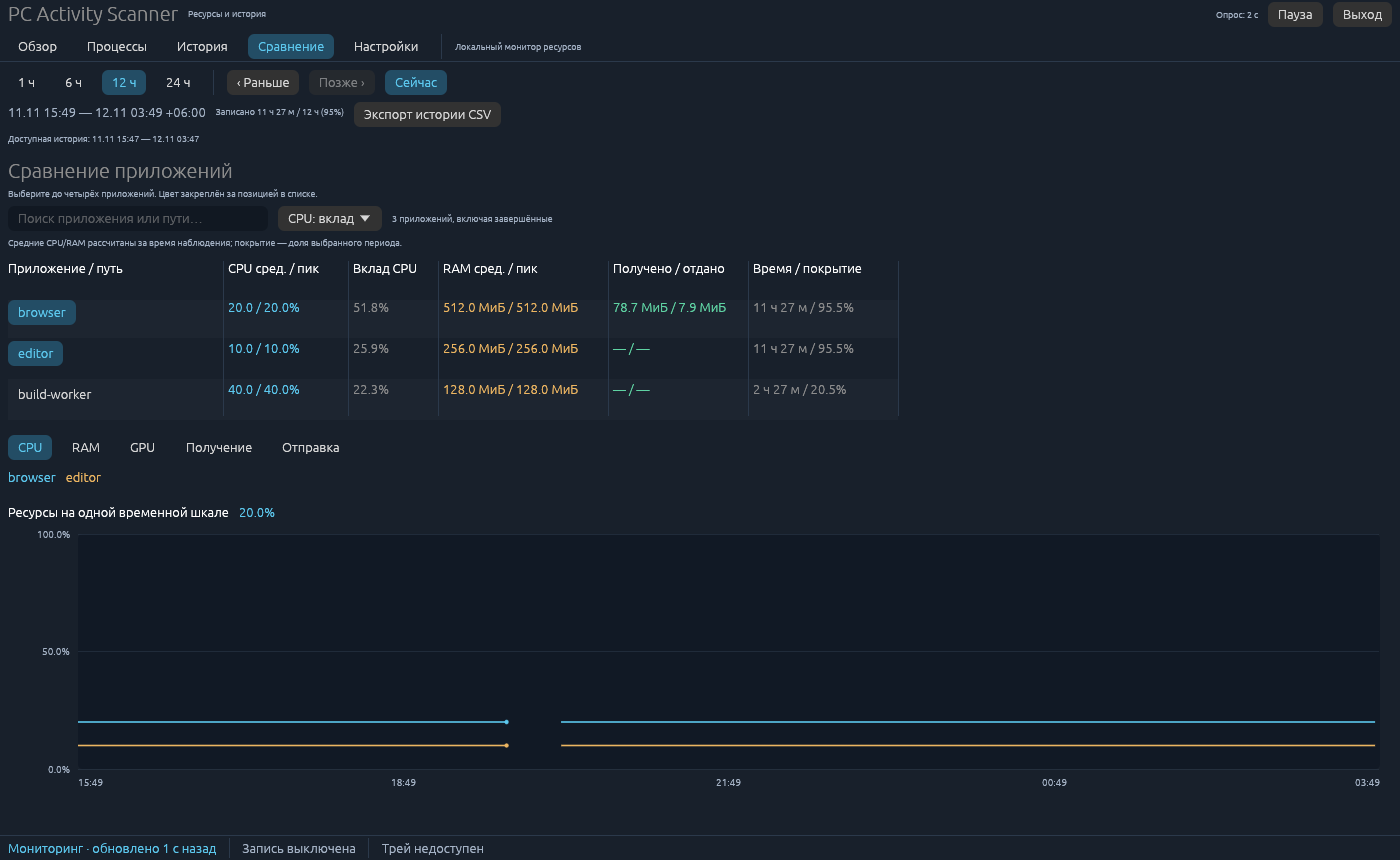
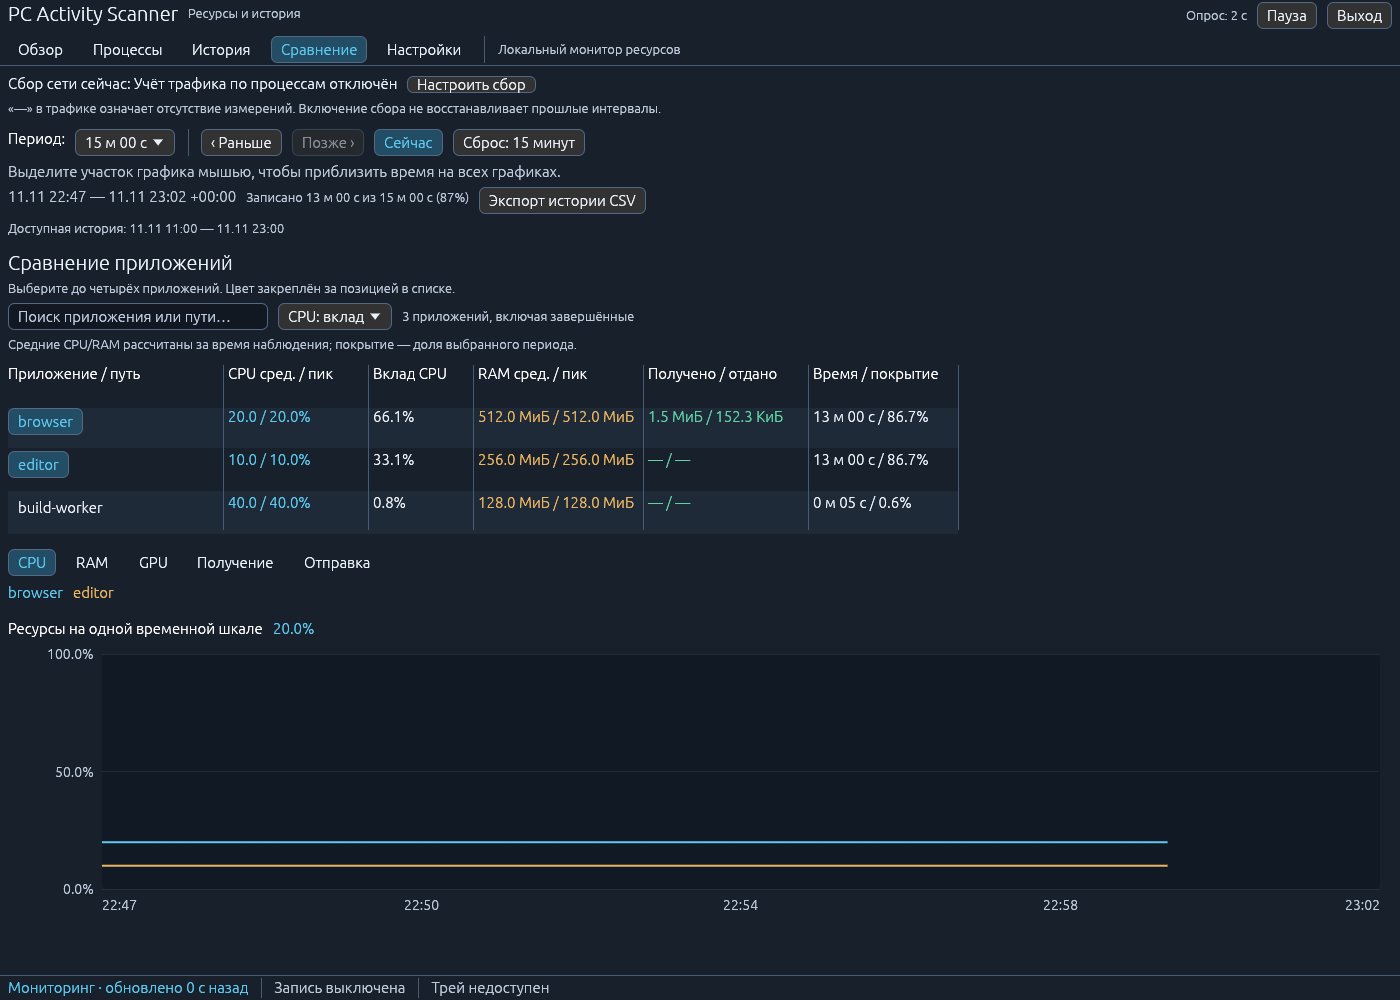
Refresh desktop screenshots and record Windows runtime verification

diff --git a/docs/plans/WINDOWS_DESKTOP_INTEGRATION.md b/docs/plans/WINDOWS_DESKTOP_INTEGRATION.md
@@ -43,3 +43,21 @@ Clippy and all tests, packaging tests, Linux GUI inspection at 1400x860/960x600,
 Windows/Linux CI. Review new privilege boundaries before integration. WSL/Xvfb
 cannot establish real Windows UAC, Task Scheduler, live ETW or Explorer acceptance;
 release notes must disclose this and give a concrete manual checklist.
+
+## Completed verification
+
+- Linux: 94 tests passed, one explicit fixture generator ignored; separately run
+  fixture generator passed. Formatting, Clippy, packaging tests and actionlint pass.
+- Complete Windows GNU cross-target check/Clippy pass, including bundled SQLite
+  and embedded EXE icon resource. Native Windows/MSVC CI passes the IPC token
+  level and read-only Task Scheduler query tests.
+- Windows production-helper runtime smoke passes TCP/UDP IPv4/IPv6 traffic
+  accounting and confirms its ETW session disappears after disable.
+- Native read-only Windows PowerShell protected-path checks accept known system
+  executables; task creation/UAC/logon remain manual acceptance.
+- Xvfb: 1400x860 and 960x600 process/settings layouts; controlled 12-hour fixture,
+  default short period, actual pointer zoom, two-app comparison and 80 sampled
+  chart frames across background refresh without disappearance.
+- Independent reviews found and fixed pipe token impersonation, moved-EXE startup
+  repair and successful-empty-query/shared-warning confusion; scoped re-review
+  accepted the fixes. No schema change to historical storage.
